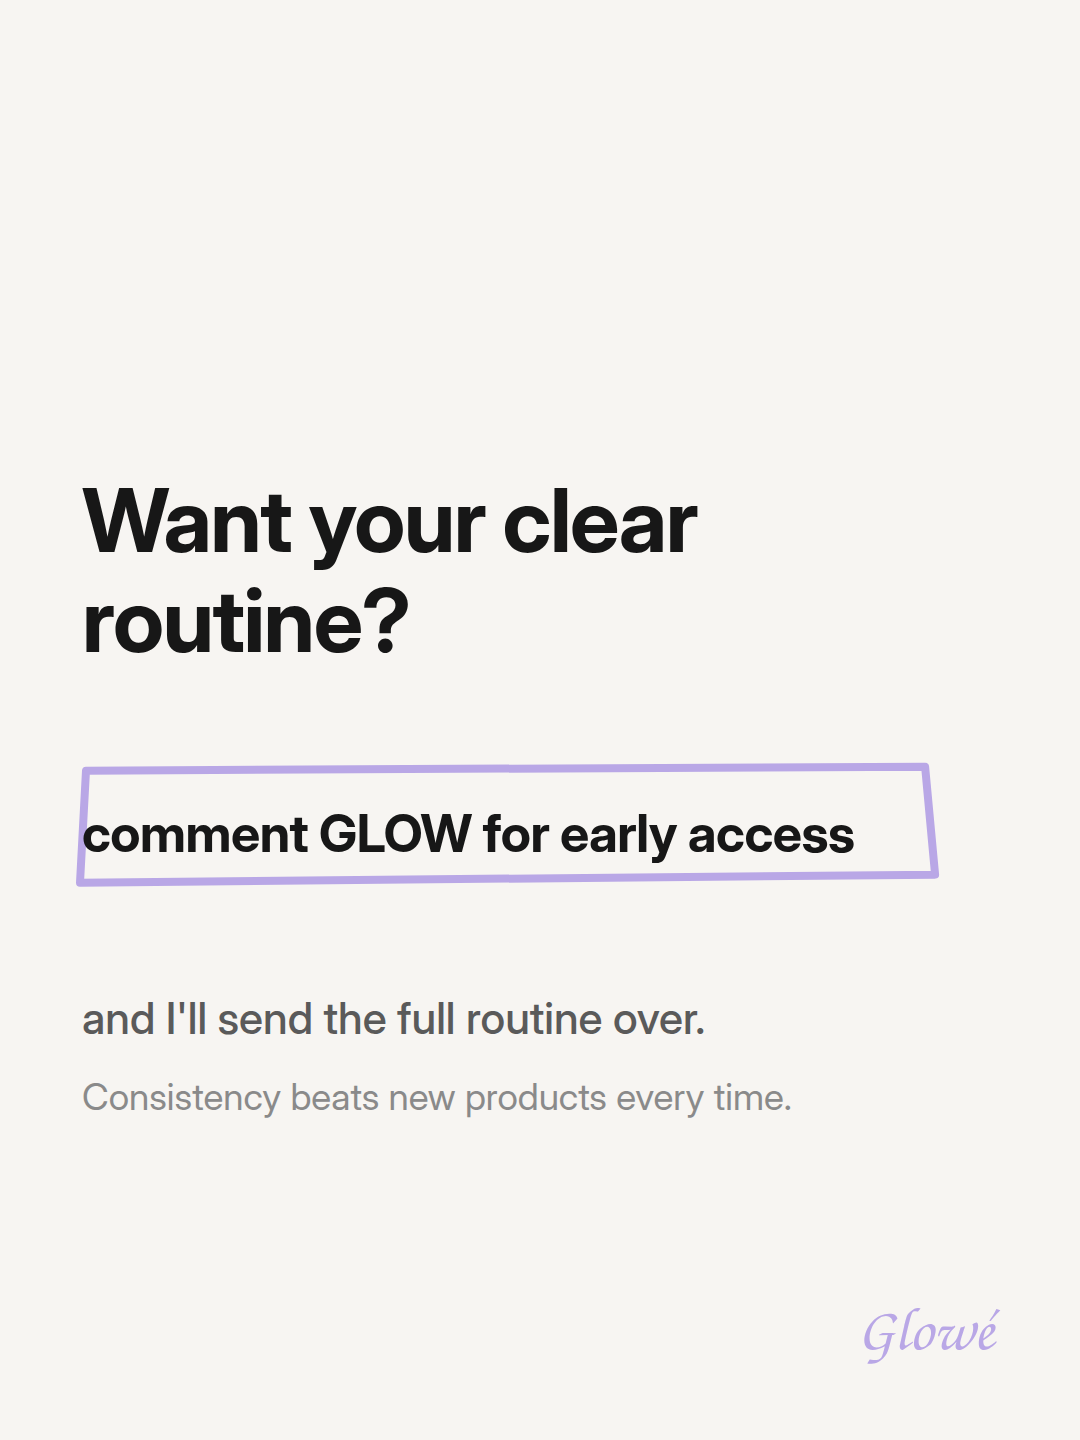
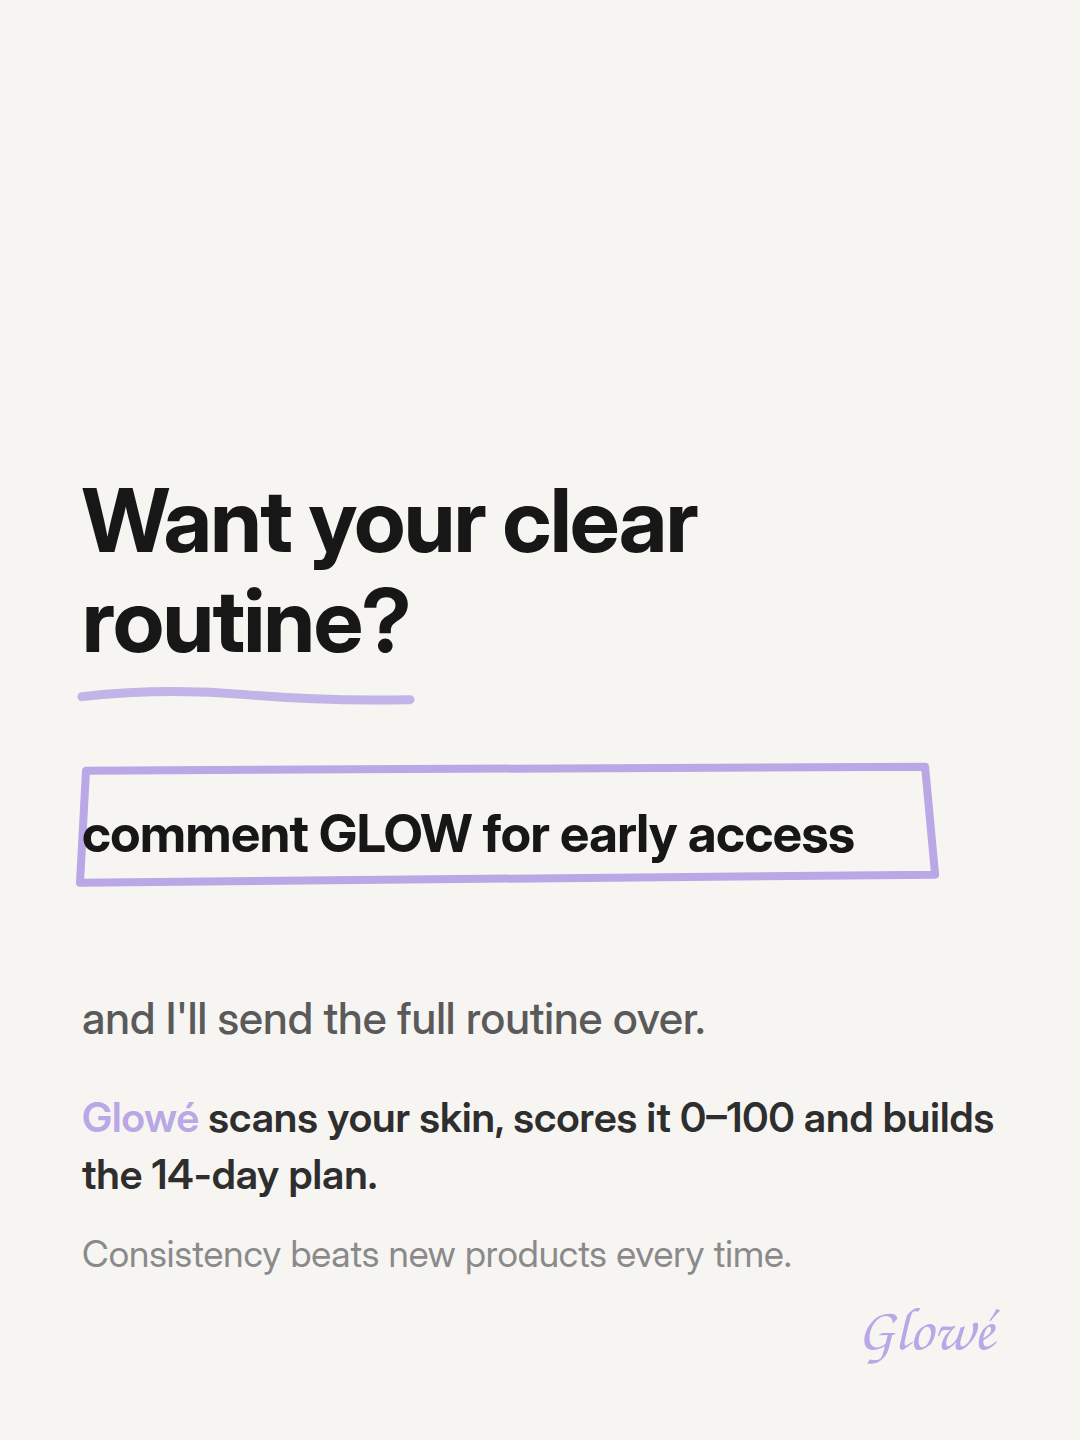
Underline the closing headline and say what early access is for
The wobbled underline ran on the step slides but not the last one, so the
element meant to tie the five together stopped one slide short. It now sits
under the closing headline too, measured to the same last-line width.

The CTA also invited people to early access without naming what they were
getting into. A new `app` line states it plainly — scans your skin, scores
it, builds the 14-day plan — with bracketed text picking up the lavender the
way the hook slide does. It describes the product without asserting the
store availability the app does not yet have.

Claude-Session: https://claude.ai/code/session_01EJfp6AtmKdfAEJn3yox12P

Changed region(s): [[0.0611, 0.75, 0.9167, 0.9062], [0.0611, 0.4688, 0.3972, 0.5]]

diff --git a/web/tiktok/render.py b/web/tiktok/render.py
@@ -339,7 +339,11 @@ body {
   line-height:1.25;
 }
 .after { font-size:44px; color:#5A5A5A; line-height:1.4; margin-top:52px; font-weight:500; }
-.note  { font-size:37px; color:#8A8A8A; line-height:1.4; margin-top:22px; }
+/* Sagt, worauf sich "early access" ueberhaupt bezieht — ohne die Zeile ist
+   der CTA eine Einladung zu nichts Bestimmtem. */
+.app { font-size:41px; color:#2E2E2E; line-height:1.38; margin-top:40px; font-weight:600; }
+.app em { font-style:normal; color:{LAV}; }
+.note  { font-size:37px; color:#8A8A8A; line-height:1.4; margin-top:26px; }
 .mark { position:absolute; bottom:74px; right:86px;
         font-family:'{SCRIPT}'; font-size:60px; color:{LAV}; }
 """
@@ -416,19 +420,28 @@ def build_marker_step(slide):
 
 
 def build_marker_cta(slide):
-    size, lines, _ = _marker_head(slide["headline"], budget=300)
+    size, lines, last_w = _marker_head(slide["headline"], budget=300)
     head = "<br>".join(html.escape(" ".join(l)) for l in lines)
     head_h = len(lines) * size * 1.14
     cta = slide.get("pill", 'comment GLOW for early access')
     f = ImageFont.truetype(SANS_BOLD, 52)
     box_w = min(f.getlength(cta) + 76, MARK_W)
     box_y = 470 + head_h + 96
-    ink = hand_box(MARK_X - 10, box_y, box_w, 116)
+    # Dieselbe Unterstreichung wie auf den Schritt-Slides — sie ist das
+    # Element, das die fuenf Slides als Satz zusammenhaelt.
+    ink = (hand_underline(MARK_X, 470 + head_h + 26, last_w)
+           + hand_box(MARK_X - 10, box_y, box_w, 116))
+    app = ""
+    if slide.get("app"):
+        app = (f"<div class='app'>"
+               f"{html.escape(slide['app']).replace('[', '<em>').replace(']', '</em>')}"
+               f"</div>")
     inner = (f"<div class='wrap'>"
              f"<div class='head' style='font-size:{size}px'>{head}</div>"
              f"<div class='cta' style='margin-top:{96 + 34}px'>{html.escape(cta)}</div>"
              f"<div class='after' style='margin-top:{116 - 34 + 40}px'>"
              f"{html.escape(slide.get('after_pill', ''))}</div>"
+             f"{app}"
              f"<div class='note'>{html.escape(slide['line2'])}</div></div>")
     return _marker_page(ink, inner)
 
